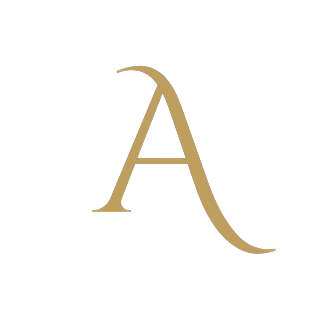
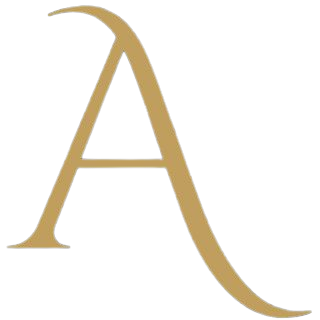
gweh belajar backend ndaa

Changed region(s): [[0.0312, 0.0, 0.9688, 1.0]]

diff --git a/public/css/dashboard.css b/public/css/dashboard.css
@@ -1,0 +1,19 @@
+.isi h4{
+    font-family: system-ui, -apple-system, BlinkMacSystemFont, 'Segoe UI', Roboto, Oxygen, Ubuntu, Cantarell, 'Open Sans', 'Helvetica Neue', sans-serif;
+}
+
+.erga{
+  padding-top: 100px;
+}
+
+.card-tittle{
+  text-align: center;
+}
+
+.card-body h4 {
+  font-family: "Comic Sans MS", "Comic Sans", cursive;
+}
+
+.isi h3{
+  font-family: Verdana, Arial, Tahoma, Serif;
+}

diff --git a/public/css/style2.css b/public/css/style2.css
@@ -16571,7 +16571,7 @@ code {
 
 /* Cards */
 .card {
-  border-radius: 0.25rem; }
+  border-radius: 0.25rem;}
   .card .card-body {
     padding: 1.75rem 1.5625rem; }
     .card .card-body + .card-body {
@@ -21131,5 +21131,6 @@ div.tagsinput {
   width: 100%;
   -webkit-flex-grow: 1;
   flex-grow: 1; }
+
 
 /*# sourceMappingURL=maps/style.css.map */

diff --git a/resources/views/dashboard.blade.php b/resources/views/dashboard.blade.php
@@ -19,8 +19,9 @@
     <!-- endinject -->
     <!-- Layout styles -->
     <link rel="stylesheet" href="css/style2.css">
+    <link rel="stylesheet" href="css/dashboard.css"> 
     <!-- End layout styles -->
-    <link rel="shortcut icon" href="img/favicon.png" />
+    <link rel="shortcut icon" href="img/labelmini.png" />
   </head>
   <body>
     <div class="container-scroller">
@@ -28,7 +29,7 @@
       <nav class="sidebar sidebar-offcanvas" id="sidebar">
         <div class="sidebar-brand-wrapper d-none d-lg-flex align-items-center justify-content-center fixed-top">
           <a class="sidebar-brand brand-logo" href=""><img src="img/label2.png" alt="logo" /></a>
-          <a class="sidebar-brand brand-logo-mini" href=""><img src="img/logo-mini.svg" alt="logo" /></a>
+          <a class="sidebar-brand brand-logo-mini" href=""><img src="img/labelmini.png" alt="logo" /></a>
         </div>
         <ul class="nav">
           <li class="nav-item profile">
@@ -387,90 +388,30 @@
                 </div>
               </div>
             </div>
-            <div class="row">
-              <div class="col-xl-3 col-sm-6 grid-margin stretch-card">
-                <div class="card">
-                  <div class="card-body">
-                    <div class="row">
-                      <div class="col-9">
-                        <div class="d-flex align-items-center align-self-start">
-                          <h3 class="mb-0">$12.34</h3>
-                          <p class="text-success ml-2 mb-0 font-weight-medium">+3.5%</p>
+            <div class="row ">
+              <div class="col-12 grid-margin">
+                <div class="erga">
+                  <div class="card">
+                    <div class="card-body">
+                      <h4 class="card-title" style="text-align: center">SELAMAT DATANG ARMANI'S ADMIN</h4>
+                        <div class="isi" style="text-align: center">
+                          <!-- <h3>Armani's Admin</h3> -->
+                            <h4>
+                                Indonesia merupakan negara yang kaya akan keanekaragaman budaya dan tradisi. 
+                                Berawal dari pengetahuan tentang keanekaragaman Indonesia, user dapat mencintai, bangga, bahkan tumbuhnya rasa untuk melestarikan budaya maupun tradisi Indonesia. 
+                                Dengan hal ini, Armani Pesona Indonesia dibuat dengan tujuan agar user dapat mengetahui lebih dalam tentang apa saja keanekaragaman yang ada di Indonesia.
+                                selain di desain untuk mengetahui keanekaragaman Indonesia, web ini juga di desain agar user dapat menikmati dan mencoba sebagian kecil cirikhas dari setiap provinsi 
+                                dengan bisa membeli makanan khas dari suatu daerah
+                            </h4>
                         </div>
-                      </div>
-                      <div class="col-3">
-                        <div class="icon icon-box-success ">
-                          <span class="mdi mdi-arrow-top-right icon-item"></span>
-                        </div>
-                      </div>
                     </div>
-                    <h6 class="text-muted font-weight-normal">Potential growth</h6>
-                  </div>
-                </div>
-              </div>
-              <div class="col-xl-3 col-sm-6 grid-margin stretch-card">
-                <div class="card">
-                  <div class="card-body">
-                    <div class="row">
-                      <div class="col-9">
-                        <div class="d-flex align-items-center align-self-start">
-                          <h3 class="mb-0">$17.34</h3>
-                          <p class="text-success ml-2 mb-0 font-weight-medium">+11%</p>
-                        </div>
-                      </div>
-                      <div class="col-3">
-                        <div class="icon icon-box-success">
-                          <span class="mdi mdi-arrow-top-right icon-item"></span>
-                        </div>
-                      </div>
-                    </div>
-                    <h6 class="text-muted font-weight-normal">Revenue current</h6>
-                  </div>
-                </div>
-              </div>
-              <div class="col-xl-3 col-sm-6 grid-margin stretch-card">
-                <div class="card">
-                  <div class="card-body">
-                    <div class="row">
-                      <div class="col-9">
-                        <div class="d-flex align-items-center align-self-start">
-                          <h3 class="mb-0">$12.34</h3>
-                          <p class="text-danger ml-2 mb-0 font-weight-medium">-2.4%</p>
-                        </div>
-                      </div>
-                      <div class="col-3">
-                        <div class="icon icon-box-danger">
-                          <span class="mdi mdi-arrow-bottom-left icon-item"></span>
-                        </div>
-                      </div>
-                    </div>
-                    <h6 class="text-muted font-weight-normal">Daily Income</h6>
-                  </div>
-                </div>
-              </div>
-              <div class="col-xl-3 col-sm-6 grid-margin stretch-card">
-                <div class="card">
-                  <div class="card-body">
-                    <div class="row">
-                      <div class="col-9">
-                        <div class="d-flex align-items-center align-self-start">
-                          <h3 class="mb-0">$31.53</h3>
-                          <p class="text-success ml-2 mb-0 font-weight-medium">+3.5%</p>
-                        </div>
-                      </div>
-                      <div class="col-3">
-                        <div class="icon icon-box-success ">
-                          <span class="mdi mdi-arrow-top-right icon-item"></span>
-                        </div>
-                      </div>
-                    </div>
-                    <h6 class="text-muted font-weight-normal">Expense current</h6>
                   </div>
                 </div>
               </div>
             </div>
+            </div>
             <div class="row">
-              <div class="col-md-4 grid-margin stretch-card">
+              <!-- <div class="col-md-4 grid-margin stretch-card">
                 <div class="card">
                   <div class="card-body">
                     <h4 class="card-title">Transaction History</h4>
@@ -495,8 +436,8 @@
                     </div>
                   </div>
                 </div>
-              </div>
-              <div class="col-md-8 grid-margin stretch-card">
+              </div> -->
+              <!-- <div class="col-md-8 grid-margin stretch-card">
                 <div class="card">
                   <div class="card-body">
                     <div class="d-flex flex-row justify-content-between">
@@ -596,9 +537,9 @@
                     </div>
                   </div>
                 </div>
-              </div>
+              </div> -->
             </div>
-            <div class="row">
+            <!-- <div class="row">
               <div class="col-sm-4 grid-margin">
                 <div class="card">
                   <div class="card-body">
@@ -1025,13 +966,13 @@
                 </div>
               </div>
             </div>
-          </div>
+          </div> -->
           <!-- content-wrapper ends -->
           <!-- partial:partials/_footer.html -->
           <footer class="footer">
             <div class="d-sm-flex justify-content-center justify-content-sm-between">
-              <span class="text-muted d-block text-center text-sm-left d-sm-inline-block">Copyright © bootstrapdash.com 2020</span>
-              <span class="float-none float-sm-right d-block mt-1 mt-sm-0 text-center"> Free <a href="https://www.bootstrapdash.com/bootstrap-admin-template/" target="_blank">Bootstrap admin templates</a> from Bootstrapdash.com</span>
+              <span class="text-muted d-block text-center text-sm-left d-sm-inline-block">Copyright <a href="/">© armani.com</a> 2022</span>
+              <!-- <span class="float-none float-sm-right d-block mt-1 mt-sm-0 text-center"> Free <a href="https://www.bootstrapdash.com/bootstrap-admin-template/" target="_blank">Bootstrap admin templates</a> from Bootstrapdash.com</span> -->
             </div>
           </footer>
           <!-- partial -->

diff --git a/resources/views/about.blade.php b/resources/views/about.blade.php
@@ -77,29 +77,24 @@
       <div class="collapse navbar-collapse py-4 py-lg-0" id="navbarCollapse">
         <div class="navbar-nav ms-auto">
           <a href="/" class="nav-item nav-link active">Home</a>
-          <a href="/About" class="nav-item nav-link">About</a>
+          <a href="/about" class="nav-item nav-link">About</a>
           <a href="#CONTACT" class="nav-item nav-link">Contact</a>
-          <a href="/signup" class="nav-item nav-link">Register</a>
-          <a href="/login" class="nav-item nav-link">Login</a>
-          <!-- <div class="nav-item dropdown"> -->
-            <!-- <a
-              href="#"
+          <div class="nav-item dropdown">
+            <a
+              href=""
               class="nav-link dropdown-toggle"
               data-bs-toggle="dropdown"
-              >Pages</a
+              >User</a
             >
             <div class="dropdown-menu rounded-0 rounded-bottom m-0">
-              <a href="animal.html" class="dropdown-item">Our Animals</a>
-              <a href="membership.html" class="dropdown-item">Membership</a>
-              <a href="visiting.html" class="dropdown-item">Visiting Hours</a>
-              <a href="testimonial.html" class="dropdown-item">Testimonial</a>
-              <a href="404.html" class="dropdown-item">404 Page</a>
+              <a href="/signup" class="dropdown-item">Register</a>
+              <a href="/login" class="dropdown-item">Login</a>
             </div>
-          </div> -->
+          </div>
         </div>
-        <!-- <a href="" class="btn btn-primary"
-          >Buy Ticket<i class="fa fa-arrow-right ms-3"></i
-        ></a> -->
+        <a href="/login" class="btn btn-primary"
+          >Armani's Store<i class="fa fa-arrow-right ms-3"></i
+        ></a>
       </div>
     </nav>
     <!-- Navbar End -->

diff --git a/resources/views/home.blade.php b/resources/views/home.blade.php
@@ -2,7 +2,7 @@
 <html lang="en">
   <head>
     <meta charset="utf-8" />
-    <title>Armani Pesona Indosesia</title>
+    <title>Armani Pesona Indonesia</title>
     <meta content="width=device-width, initial-scale=1.0" name="viewport" />
     <meta content="" name="keywords" />
     <meta content="" name="description" />
@@ -76,7 +76,7 @@
       </button>
       <div class="collapse navbar-collapse py-4 py-lg-0" id="navbarCollapse">
         <div class="navbar-nav ms-auto">
-          <a href="" class="nav-item nav-link active">Home</a>
+          <a href="/" class="nav-item nav-link">Home</a>
           <a href="/about" class="nav-item nav-link">About</a>
           <a href="#CONTACT" class="nav-item nav-link">Contact</a>
           <div class="nav-item dropdown">
@@ -98,7 +98,7 @@
       </div>
     </nav>
     <!-- Navbar End -->
-
+    
     <!-- Header Start -->
     <div class="container-fluid bg-dark p-0 mb-5">
       <div class="row g-0 flex-column-reverse flex-lg-row">
@@ -107,7 +107,7 @@
             class="header-bg h-100 d-flex flex-column justify-content-center p-5"
           >
             <h1 class="display-4 text-light mb-5">
-              Indonesia Megabiodiversitas
+              Indonesia Megabiodiversitas 
             </h1>
             <div class="d-flex align-items-center pt-4 animated slideInDown">
               <!-- <a href="" class="btn btn-primary py-sm-3 px-3 px-sm-5 me-5"

diff --git a/resources/views/signup.blade.php b/resources/views/signup.blade.php
@@ -4,7 +4,7 @@
     <!-- Required meta tags -->
     <meta charset="utf-8">
     <meta name="viewport" content="width=device-width, initial-scale=1">
-    <link rel="stylesheet" href="login.css">
+    <!-- <link rel="stylesheet" href="login.css"> -->
     <!-- Bootstrap CSS -->
     <link href="https://cdn.jsdelivr.net/npm/bootstrap@5.0.2/dist/css/bootstrap.min.css" rel="stylesheet" integrity="sha384-EVSTQN3/azprG1Anm3QDgpJLIm9Nao0Yz1ztcQTwFspd3yD65VohhpuuCOmLASjC" crossorigin="anonymous">
 

diff --git a/routes/web.php b/routes/web.php
@@ -14,7 +14,10 @@ use Illuminate\Support\Facades\Route;
 */
 
 Route::get('/', function () {
-    return view('home');
+    return view('home', [
+        "name" => "Erga Viranda",
+        "words" => "Love you sayang"
+    ]);
 });
 
 
